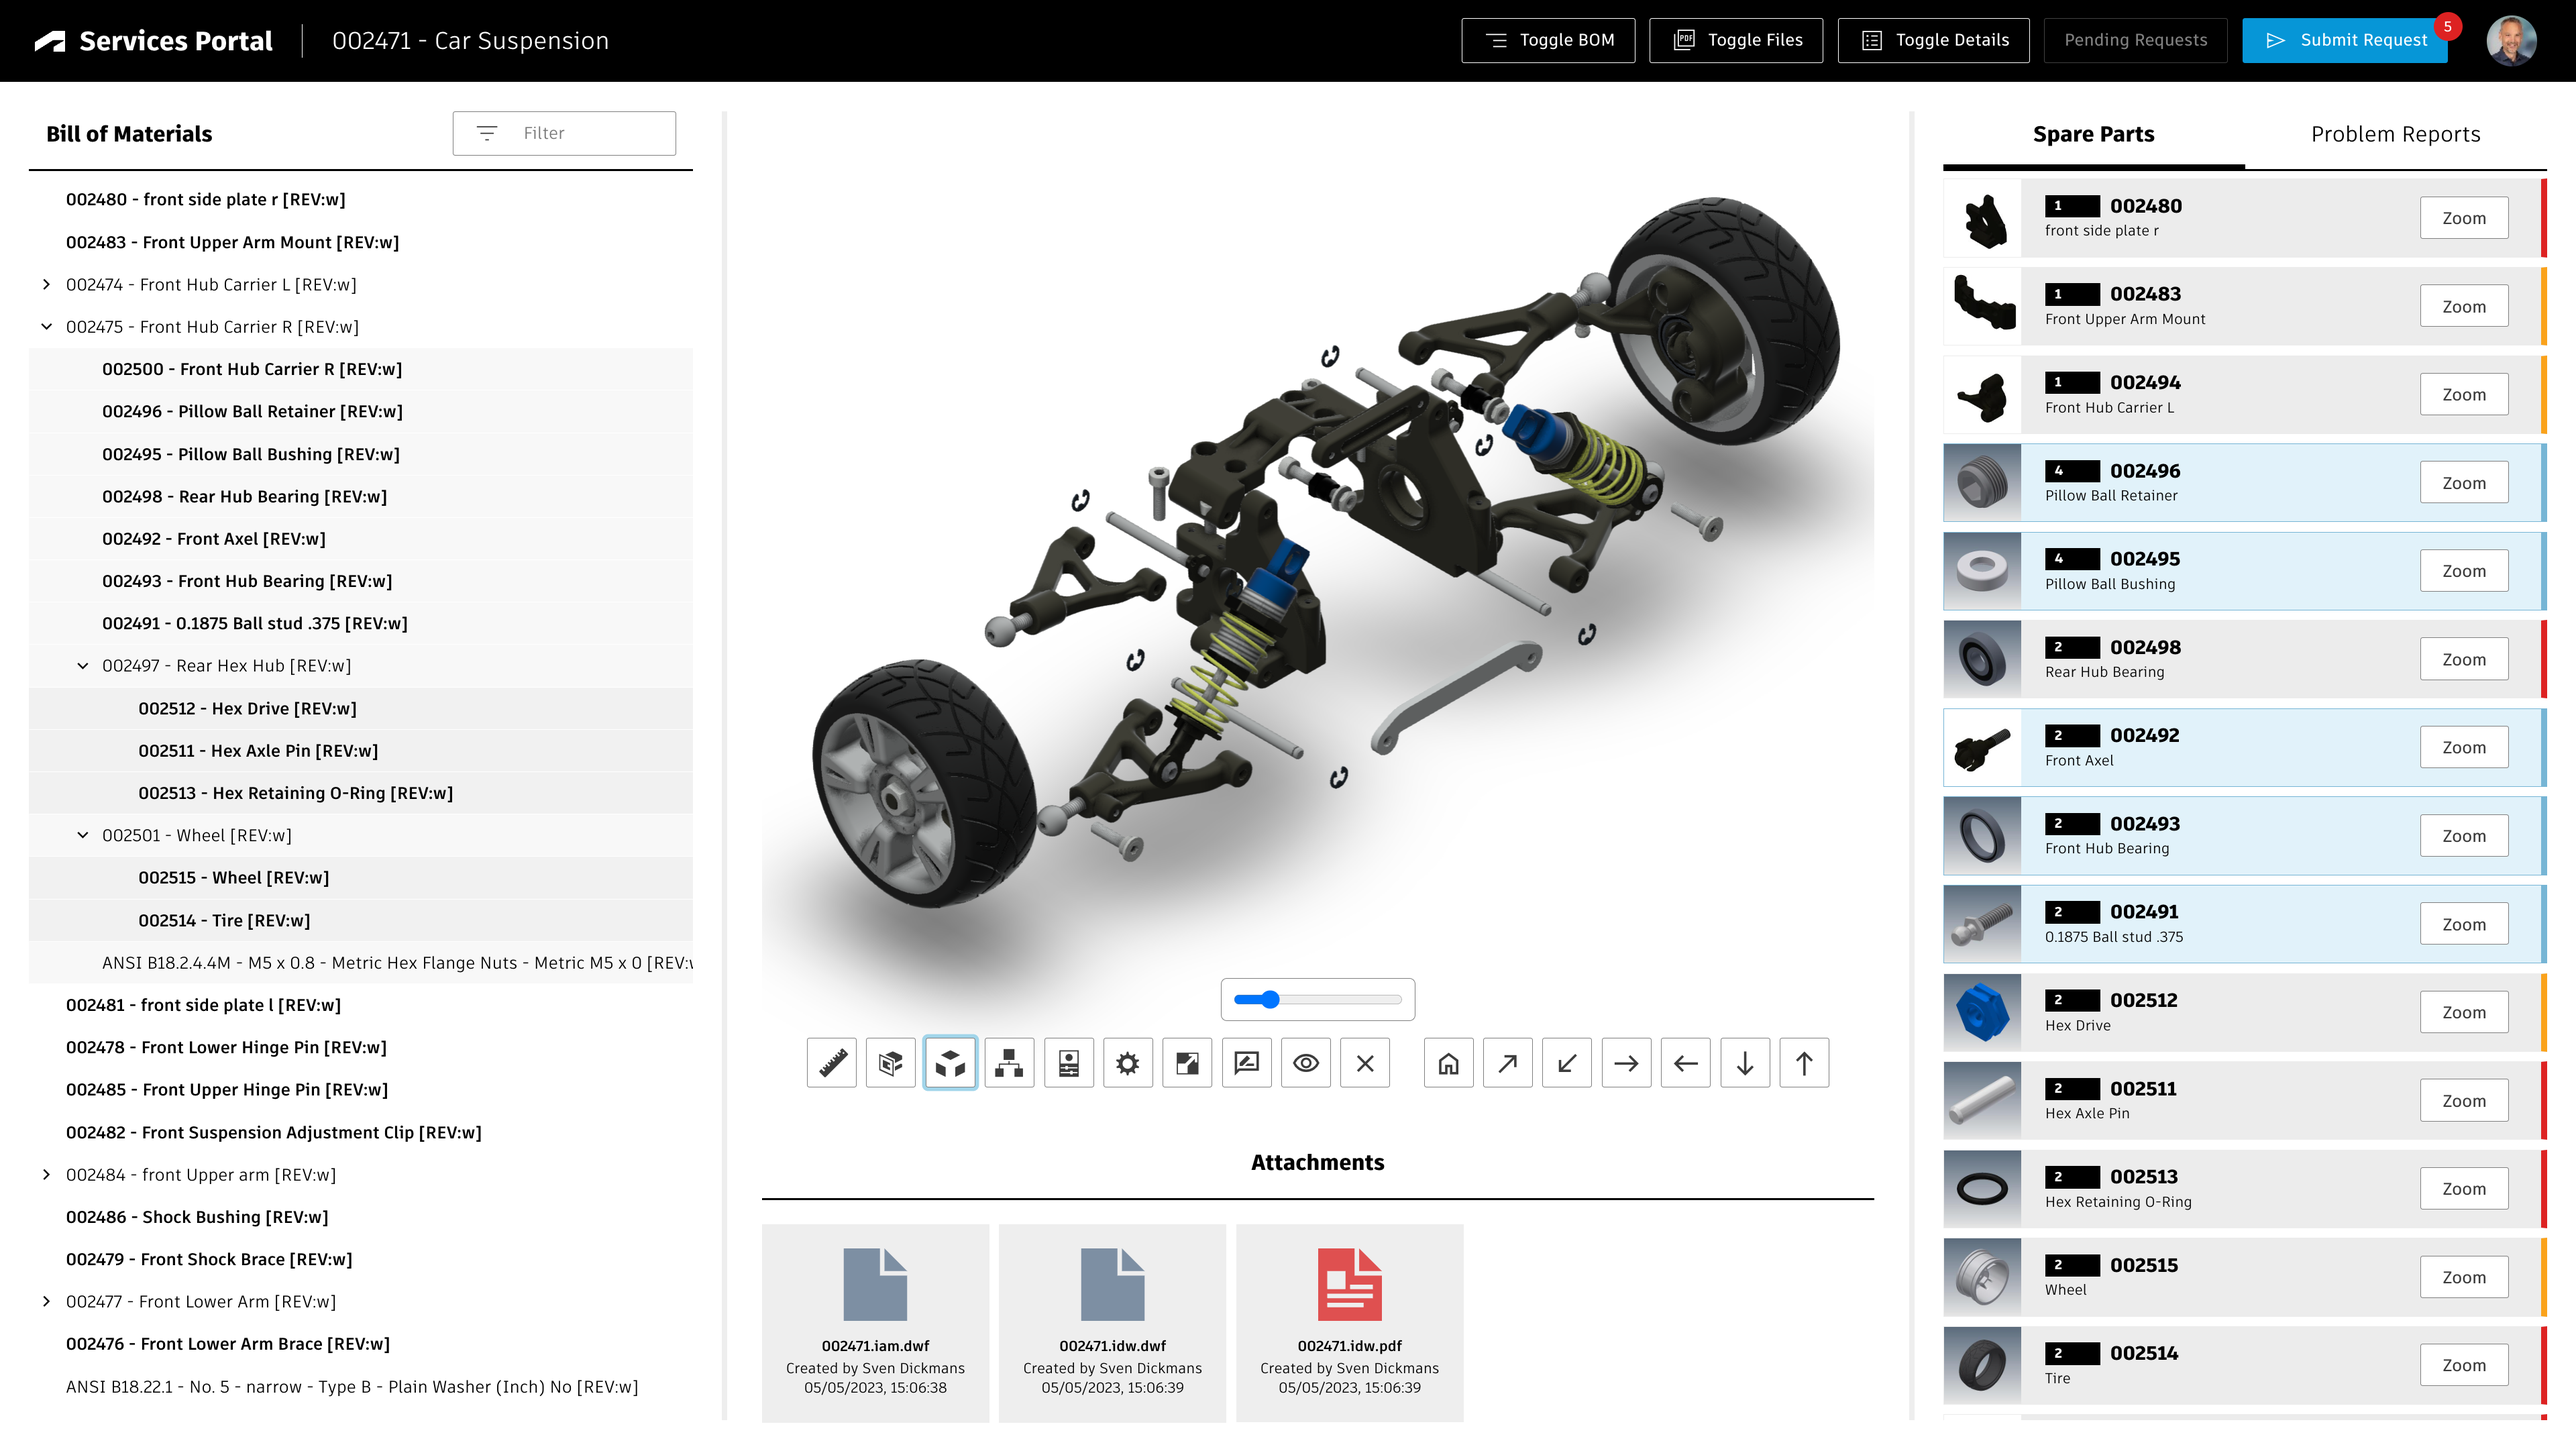
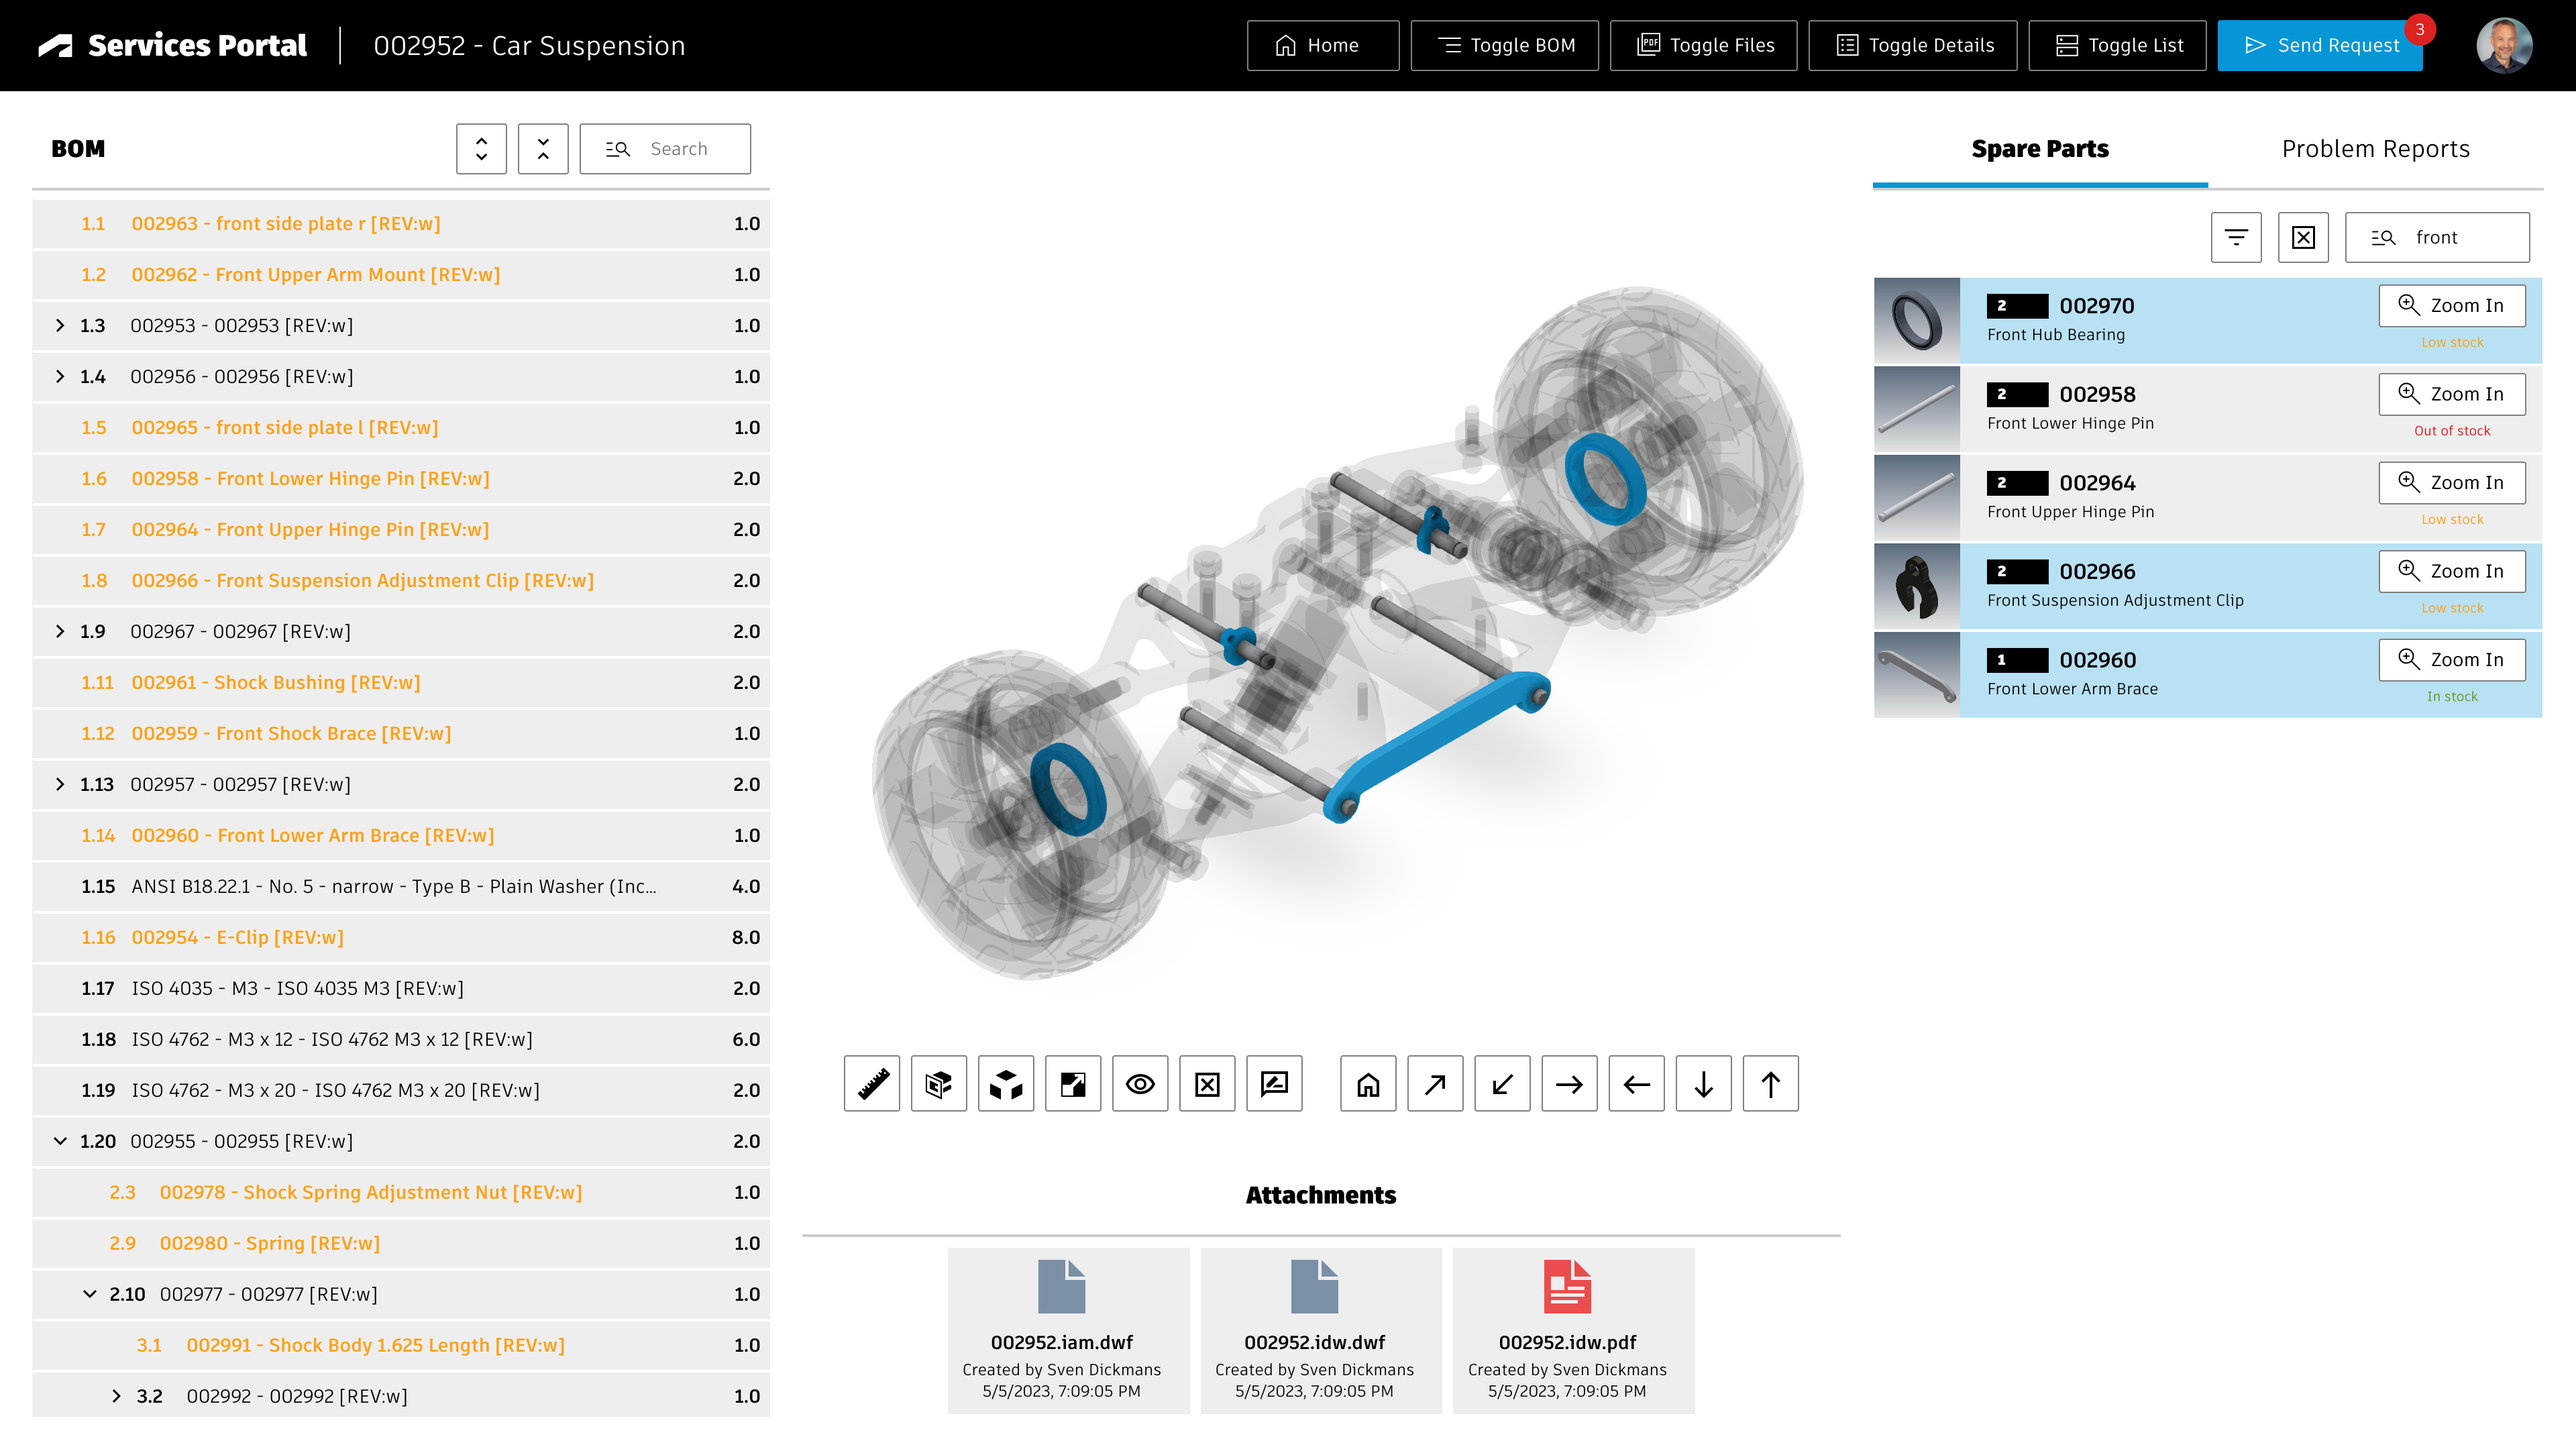
SP: Viewer behavior & List Toolbar

diff --git a/public/javascripts/framework/utils.js b/public/javascripts/framework/utils.js
@@ -592,6 +592,53 @@ function appendTileDetails(elemTile, data) {
 }
 
 
+// Search in list of tiles
+function searchInTiles(id, elemInput) {
+
+    let elemContent = $('#' + id);
+    let filterValue = elemInput.val().toLowerCase();
+
+    if(isBlank(filterValue)) {
+        
+        elemContent.children('.tile').show();
+        elemContent.children('.workspace-items-group').show();
+        elemContent.children('.workspace-items-group').find('.tile').show();
+
+    } else {
+        
+        elemContent.children('.tile').hide();
+        elemContent.children('.workspace-items-group').hide();
+        elemContent.children('.workspace-items-group').find('.tile').hide();
+
+        elemContent.children('.tile').each(function() {
+            let elemTile = $(this);
+            elemTile.find('.tile-details').children().each(function() {
+                let value = $(this).html().toLowerCase();
+                if(value.indexOf(filterValue) > -1) elemTile.show();
+            });
+
+            // let value = $(this).find('.tile-title').html().toLowerCase();
+            // if(value.indexOf(filterValue) > -1) $(this).show();
+        });
+
+        elemContent.children('.workspace-items-group').each(function() {
+            $(this).find('.tile').each(function() {
+                let elemTile = $(this);
+                elemTile.find('.tile-details').children().each(function() {
+                    let value = $(this).html().toLowerCase();
+                    if(value.indexOf(filterValue) > -1) {
+                        elemTile.show();
+                        $(this).closest('.workspace-items-group').show();
+                    }
+                });
+            });
+        });
+
+    }    
+
+}
+
+
 // Retrieve configuration profile from settings based on workspace ID
 function getProfileSettings(profiles, wsId) {
 

diff --git a/public/javascripts/apps/service.js b/public/javascripts/apps/service.js
@@ -91,6 +91,28 @@ function setUIEvents() {
     });
 
 
+    // Spare Parts List Toolbar
+    $('#filter-spare-parts').click(function() {
+        let partNumbers = [];
+        $('.spare-part').hide();
+        $('.spare-part.selected').each(function() {
+            $(this).show();
+            partNumbers.push($(this).attr('data-part-number'));
+        });
+        viewerSelectModels(partNumbers, true, false);
+    });
+    $('#deselect-spare-parts').click(function() {
+        $('.spare-part.selected').removeClass('selected');
+        $('.spare-part').show();
+        $('#spare-parts-search-input').val('');
+        viewerResetColors();
+        updateCounter();
+    });
+    $('#spare-parts-search-input').keyup(function() {
+        searchInTiles('items-list', $(this));
+    });
+
+
     // Submit Request Dialog functions
     $('#request-submit').click(function() {
         submitRequest();
@@ -729,9 +751,13 @@ function updateCounter() {
 
     if(count === 0) {
         $('#counter').hide();
+        $('#filter-spare-parts').hide();
+        $('#deselect-spare-parts').hide();
         $('#submit-request').removeClass('default');
     } else {
         $('#counter').show();
+        $('#filter-spare-parts').show();
+        $('#deselect-spare-parts').show();
         $('#submit-request').addClass('default');
     }
 

diff --git a/public/stylesheets/apps/service.css b/public/stylesheets/apps/service.css
@@ -158,7 +158,26 @@
 .custom-message {
     display         : none;
     border-radius   : 8px;
+    margin-bottom   : 10px;
     padding         : 16px 24px;
+}
+#items-toolbar {
+    padding : 10px;
+    top     : 0px;
+    right   : 0px;
+    bottom  : unset;
+}
+#spare-parts-search-input {
+    width : 60px;
+}
+#items-list { 
+    flex-direction  : row;
+    gap             : 0px !important; 
+    position        : absolute;
+    top             : 58px;
+    right           : 0px;
+    bottom          : 0px;
+    left            : 0px;
 }
 .custom-message-text {
     margin-bottom : 10px;
@@ -219,7 +238,7 @@
 }
 .spare-part.zoom .spare-part-show {
     background   : var(--color-selected-background) !important;
-    border-color : var(--color-selected-background) !important;
+    border-color : var(--color-hover-border) !important;
 }
 .spare-part-stock {
     color       : white;
@@ -238,6 +257,10 @@
 /* Adjust for lists with 15+ entries */
 #items-list.m .spare-part .tile-details { overflow : hidden; width: 260px !important; }
 #items-list.m .spare-part-side { gap : 2px; padding-top : 5px;}
+#filter-spare-parts,
+#deselect-spare-parts {
+    display : none;
+}
 
 
 

diff --git a/public/stylesheets/framework/colors.css b/public/stylesheets/framework/colors.css
@@ -182,7 +182,11 @@ body.black-theme {
 
 /*  VIEWER */
 /* ----------------------------------------------------------------------------- */
-.adsk-viewing-viewer { background : var(--color-surface-level-1) }
+.adsk-viewing-viewer,
+.adsk-viewing-viewer .canvas-wrap,
+.adsk-viewing-viewer .canvas-wrap canvas { 
+    background : none !important;
+}
 
 body.dark-theme  #guiviewer3d-toolbar .adsk-button { background : var(--color-surface-level-4); color : white;  border-color : var(--color-surface-level-4) !important; }
 body.black-theme #guiviewer3d-toolbar .adsk-button { background : var(--color-surface-level-4); color : white;  border-color : var(--color-surface-level-4) !important; }
@@ -219,7 +223,6 @@ body.dark-theme .adsk-viewing-viewer.dark-theme .docking-panel-container-solid-c
 body.dark-theme .adsk-viewing-viewer.dark-theme .docking-panel-footer {
     background-color : var(--color-surface-level-5);
 }
-
 
 
 /*  OVERLAY & PROCESSING*/

diff --git a/public/stylesheets/contents/viewer.css b/public/stylesheets/contents/viewer.css
@@ -42,6 +42,7 @@
 #my-custom-toolbar-ghosting.no-ghosting #button-toggle-ghosting-off { display : none; }
 #my-custom-toolbar-views{ margin-left : 20px !important; }
 [class*=" adsk-icon-"]:before, [class^=adsk-icon-]:before, [data-icon]:before { font-weight : 100; }
+#guiviewer3d-toolbar .adsk-button .adsk-button-icon::before { font-weight : 300; }
 
 
 
